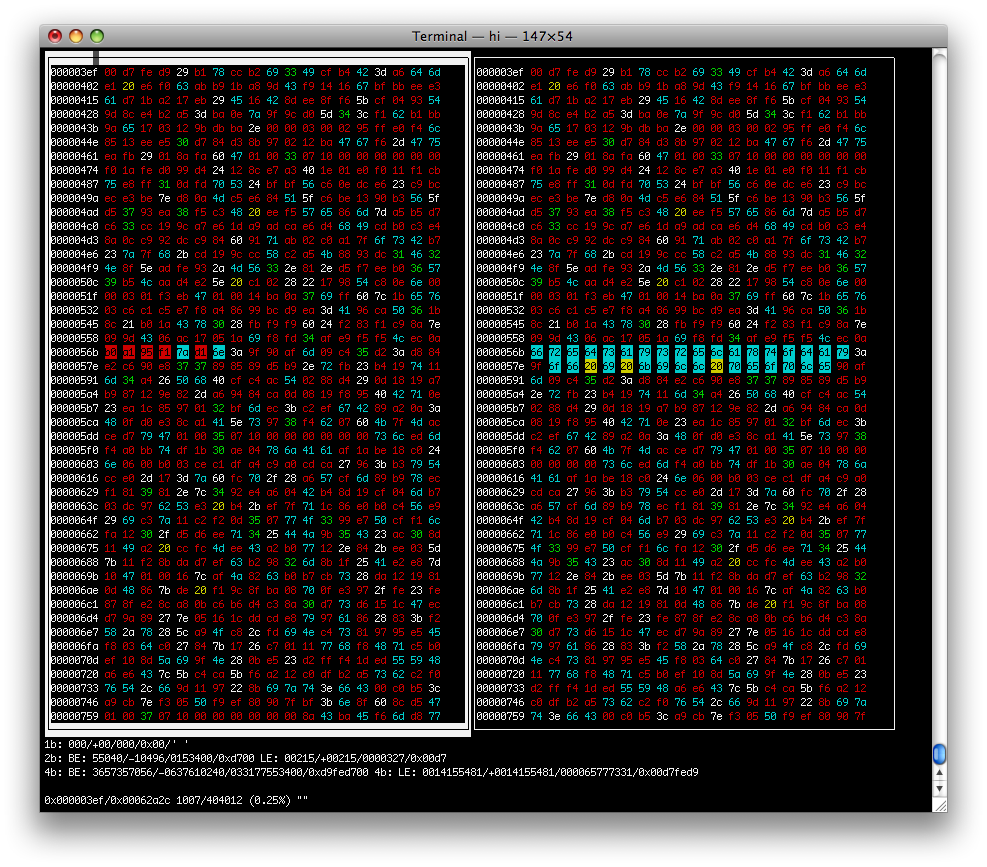
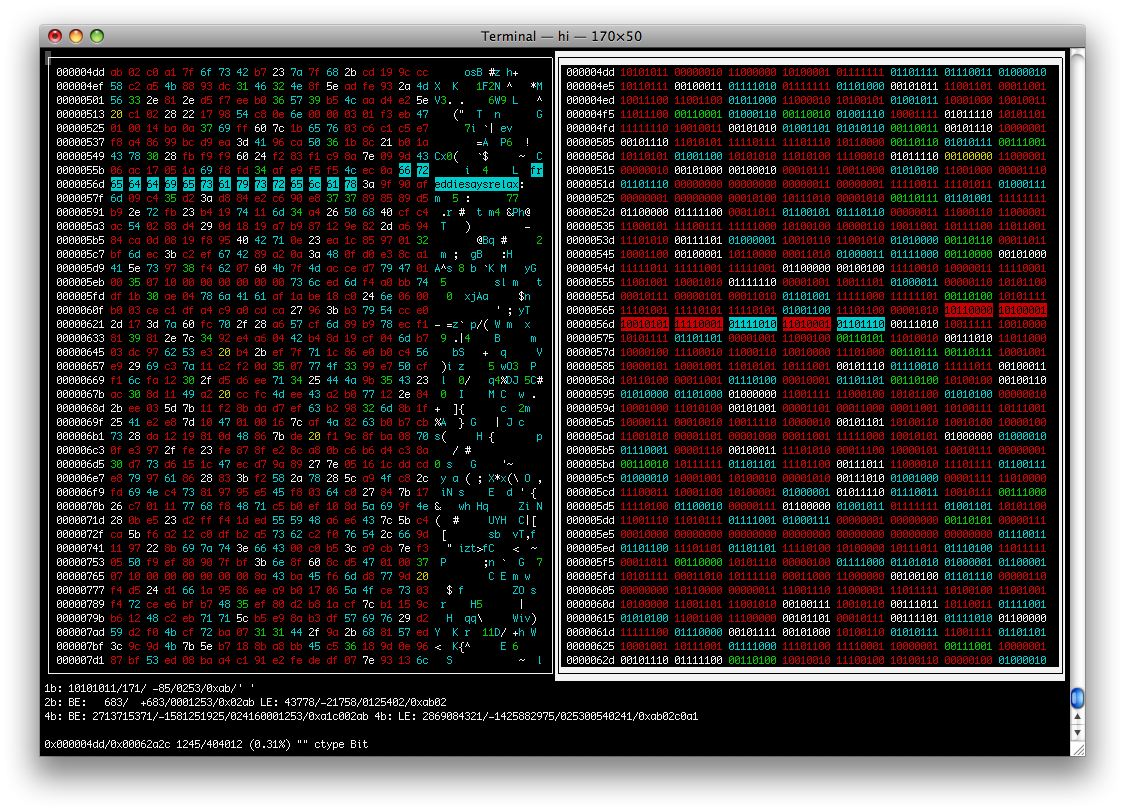
Add ASCII mode and binary mode

diff --git a/src/hi_ncurses_display.c b/src/hi_ncurses_display.c
@@ -33,6 +33,7 @@
 #include <hi_ncurses_display.h>
 #include <glib.h>
 #include <string.h>
+#include <ctype.h>
 
 static GList *display_list;
 
@@ -47,7 +48,7 @@ static void canmode_display_byte(hi_ncurses_fpager *pager, int y, int start_x, i
   mvwprintw(pager->window,y,start_x+(rowbyte*3),"%02x",value);  
   if (isprint(value))
   {
-    mvwprintw(pager->window,y,start_x+((pager->remaining_bytes_per_row-1)/4*3)+1+rowbyte,"%c", value);
+    mvwprintw(pager->window,y,start_x+((pager->remaining_bytes_per_row-1)/4*3)+rowbyte,"%c", value);
   }
 }
 
@@ -84,6 +85,33 @@ static void oct8mode_display_byte(hi_ncurses_fpager *pager, int y, int start_x, 
   mvwprintw(pager->window,y,start_x+(rowbyte*4),"%03o",value);  
 }
 
+/* ASCII mode */
+static int asciimode_bytes_per_line(unused(hi_ncurses_fpager *pager), int remaining_width)
+{
+  return (remaining_width);
+}
+
+static void asciimode_display_byte(hi_ncurses_fpager *pager, int y, int start_x, int rowbyte, off_t offset, unsigned char value)
+{
+  if (isprint(value))
+  {
+    mvwprintw(pager->window,y,start_x+rowbyte,"%c",value); 
+  }
+}
+
+/* Bit mode */
+static int bitmode_bytes_per_line(unused(hi_ncurses_fpager *pager), int remaining_width)
+{
+  return remaining_width/9;
+}
+
+static void bitmode_display_byte(hi_ncurses_fpager *pager, int y, int start_x, int rowbyte, off_t offset, unsigned char value)
+{
+  char str[9];
+  convert_to_bitstring(value,str);
+  mvwprintw(pager->window,y,start_x+(rowbyte*9),"%8s",str);  
+}
+
 
 /* Utility functions */
 static void hi_ncurses_display_define(const char *name,
@@ -105,6 +133,8 @@ void hi_ncurses_display_init(void)
   hi_ncurses_display_define("Hex8", hex8mode_bytes_per_line, hex8mode_display_byte);
   hi_ncurses_display_define("Oct8", oct8mode_bytes_per_line, oct8mode_display_byte);  
   hi_ncurses_display_define("Int8", int8mode_bytes_per_line, int8mode_display_byte);  
+  hi_ncurses_display_define("ASCII", asciimode_bytes_per_line, asciimode_display_byte);  
+  hi_ncurses_display_define("Bit",   bitmode_bytes_per_line, bitmode_display_byte);  
 }
 
 hi_display_mode *hi_ncurses_display_get(hi_display_mode *display,

diff --git a/src/hi_ncurses.h b/src/hi_ncurses.h
@@ -92,6 +92,6 @@ void hi_ncurses_fpager_resize(hi_ncurses_fpager *pager,
 gboolean hi_ncurses_fpager_key_event(hi_ncurses_fpager *pager,
                                      int key,
                                      long long buffer_val);
-
+void convert_to_bitstring(int value, char *str);
 
 #endif

diff --git a/src/hi_ncurses_main.c b/src/hi_ncurses_main.c
@@ -45,7 +45,7 @@
 #define PAGER_HEIGHT (LINES-RULER_LINES)
 
 
-static void convert_to_bitstring(int value, char *str)
+void convert_to_bitstring(int value, char *str)
 {
   int i;
   str[8]=0;
